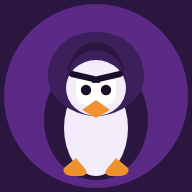
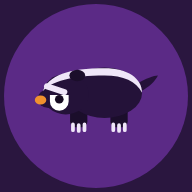
Oyunun adını Nihilist Bal Porsukları olarak değiştir
- Başlık, marka yazısı, manifest adı, kural metni ve README yeni ada göre
  güncellendi; yerel depo anahtarı da yenilendi
- Penguen amblemi yerine özgün bir bal porsuğu ambleminin çizimi:
  alçak gövde, sırt boyunca gümüş manto, aksi bakış
- 192/512 px ana ekran ikonları yeni amblemden yeniden üretildi
- Marka başlığı clamp() ile ekrana göre ölçekleniyor (yeni ad daha uzun)
- Dar ekran düzeltmesi: 320 px'te oyuncu paneli yatay taşıyordu, grid
  öğelerine min-width:0 eklendi

Claude-Session: https://claude.ai/code/session_01JfeawmjG4DiQGxwSFzzUzx

diff --git a/index.html b/index.html
@@ -4,14 +4,14 @@
 <meta charset="utf-8">
 <meta name="viewport" content="width=device-width, initial-scale=1, viewport-fit=cover">
 <meta name="theme-color" content="#5B2A86">
-<meta name="description" content="Nihilist Penguen - herkesten farklı ol, oyunu kazan. Tek cihazda sırayla oynanan azınlık oyunu.">
-<title>Nihilist Penguen</title>
-<link rel="icon" href="assets/penguen.svg" type="image/svg+xml">
+<meta name="description" content="Nihilist Bal Porsukları - herkesten farklı ol, oyunu kazan. Tek cihazda sırayla oynanan azınlık oyunu.">
+<title>Nihilist Bal Porsukları</title>
+<link rel="icon" href="assets/bal-porsugu.svg" type="image/svg+xml">
 <link rel="apple-touch-icon" href="assets/icon-192.png">
 <link rel="manifest" href="manifest.webmanifest">
 <meta name="apple-mobile-web-app-capable" content="yes">
 <meta name="apple-mobile-web-app-status-bar-style" content="black-translucent">
-<meta name="apple-mobile-web-app-title" content="Nihilist Penguen">
+<meta name="apple-mobile-web-app-title" content="Nihilist Bal Porsukları">
 <link rel="stylesheet" href="styles.css">
 </head>
 <body>
@@ -20,8 +20,8 @@
   <!-- ------------------------------------------------ KURULUM -->
   <section class="screen is-active" id="screen-setup">
     <header class="brand">
-      <img class="brand__mark" src="assets/penguen.svg" alt="">
-      <h1 class="brand__title"><span>Nihilist</span><span>Penguen</span></h1>
+      <img class="brand__mark" src="assets/bal-porsugu.svg" alt="">
+      <h1 class="brand__title"><span>Nihilist</span><span>Bal Porsukları</span></h1>
       <p class="brand__tagline">Herkesten farklı ol. Oyunu kazan.</p>
     </header>
 
@@ -49,7 +49,7 @@
   <section class="screen" id="screen-round">
     <p class="eyebrow" id="round-eyebrow">Tur 1 · hedef 15 puan</p>
     <article class="card card--question">
-      <p class="card__brand"><img src="assets/penguen.svg" alt="">Nihilist Penguen</p>
+      <p class="card__brand"><img src="assets/bal-porsugu.svg" alt="">Nihilist Bal Porsukları</p>
       <h2 class="card__question" id="round-question">Soru</h2>
       <ol class="options">
         <li class="option"><span class="option__num">1</span><span class="option__text" id="round-opt1">—</span></li>

diff --git a/styles.css b/styles.css
@@ -1,4 +1,4 @@
-/* Nihilist Penguen - mor, mobil oncelikli tema */
+/* Nihilist Bal Porsukları - mor, mobil oncelikli tema */
 :root{
   --mor-900:#1E0F2E;
   --mor-800:#2A163F;
@@ -47,18 +47,19 @@ body{
 /* ---------- marka ---------- */
 .brand{text-align:center;display:grid;gap:8px;justify-items:center;padding-top:8px}
 .brand__mark{width:76px;height:76px;filter:drop-shadow(0 10px 20px rgba(0,0,0,.45))}
-.brand__title{display:grid;gap:2px;font-size:2rem;line-height:.95;letter-spacing:.01em;text-transform:uppercase;font-style:italic}
+.brand__title{display:grid;gap:2px;font-size:clamp(1.45rem,7.6vw,2rem);line-height:.95;letter-spacing:.01em;text-transform:uppercase;font-style:italic}
 .brand__title span:first-child{color:#fff}
 .brand__title span:last-child{color:var(--mor-300)}
 .brand__tagline{font-size:.82rem;text-transform:uppercase;letter-spacing:.08em;color:var(--mor-300)}
 
 /* ---------- paneller ---------- */
-.panel{background:rgba(255,255,255,.06);border:1px solid rgba(255,255,255,.12);border-radius:var(--yuvarlak);padding:16px;display:grid;gap:12px}
-.panel__title{font-size:.95rem;text-transform:uppercase;letter-spacing:.06em;display:flex;justify-content:space-between;align-items:baseline;gap:8px}
+.panel{background:rgba(255,255,255,.06);border:1px solid rgba(255,255,255,.12);border-radius:var(--yuvarlak);padding:16px;display:grid;gap:12px;min-width:0}
+.panel>*{min-width:0}
+.panel__title{font-size:.95rem;text-transform:uppercase;letter-spacing:.06em;display:flex;flex-wrap:wrap;justify-content:space-between;align-items:baseline;gap:4px 8px}
 .panel__hint{font-size:.72rem;font-weight:400;letter-spacing:.02em;text-transform:none;color:var(--mor-300)}
 
-.players{list-style:none;display:grid;gap:8px}
-.player{display:flex;gap:8px;align-items:center}
+.players{list-style:none;display:grid;gap:8px;min-width:0}
+.player{display:flex;gap:8px;align-items:center;min-width:0}
 .player__dot{width:14px;height:14px;border-radius:50%;flex:0 0 auto;box-shadow:0 0 0 2px rgba(255,255,255,.25)}
 .player input{
   flex:1;min-width:0;font:inherit;font-size:1rem;color:#fff;

diff --git a/app.js b/app.js
@@ -1,4 +1,4 @@
-/* Nihilist Penguen - oyun mantigi
+/* Nihilist Bal Porsukları - oyun mantigi
    Kural: azinlikta kalan oyuncular, cogunlukta kalan oyuncu sayisi kadar puan alir.
    Esitlik ya da ittifak varsa kimse puan alamaz.
    Hedef puana ulasan ilk oyuncu oyunu kazanir. */
@@ -8,7 +8,7 @@
   var MIN_PLAYERS = 3;
   var MAX_PLAYERS = 8;
   var COLORS = ["#F0912F", "#63D3B0", "#FF7A7A", "#7BB8FF", "#F5D66B", "#C08BFF", "#7ED957", "#FF9FD2"];
-  var STORE_KEY = "nihilist-penguen/setup";
+  var STORE_KEY = "nihilist-bal-porsuklari/setup";
 
   var $ = function (id) { return document.getElementById(id); };
 

diff --git a/questions.js b/questions.js
@@ -1,4 +1,4 @@
-// Nihilist Penguen - Soru destesi
+// Nihilist Bal Porsukları - Soru destesi
 // Her kart iki secenek sunar. Amac cogunlugun disinda kalmaktir.
 const QUESTIONS = [
   { a: "Yüksek sesle video izleyen", b: "Telefonda hoparlörde konuşan", q: "Hangisini toplu taşımada görünce göz devirirsin?" },

diff --git a/README.md b/README.md
@@ -1,6 +1,6 @@
-# Nihilist Penguen
+# Nihilist Bal Porsukları
 
-Nihilist Penguen kart oyununun tek cihazda oynanan dijital sürümü.
+Nihilist Bal Porsukları kart oyununun tek cihazda oynanan dijital sürümü.
 Kurulum gerektirmeyen, tarayıcıda çalışan bir web uygulaması.
 
 > **Çoğunluk kaybeder. Cesurlar kazanır.**
@@ -70,7 +70,7 @@ dolaşır, herkes gizlice seçer, sonra kartlar birlikte açılır.
 | `styles.css` | Mor tema, mobil öncelikli düzen |
 | `app.js` | Oyun akışı, gizli oylama sırası, azınlık puanlaması ve hedef puan takibi |
 | `questions.js` | 71 soru kartı |
-| `assets/penguen.svg` | Penguen amblemi |
+| `assets/bal-porsugu.svg` | Bal porsuğu amblemi |
 | `assets/icon-192.png`, `assets/icon-512.png` | Ana ekran ikonları |
 | `manifest.webmanifest` | Telefonda uygulama gibi açılması için web app tanımı |
 | `.github/workflows/pages.yml` | GitHub Pages yayın iş akışı |
